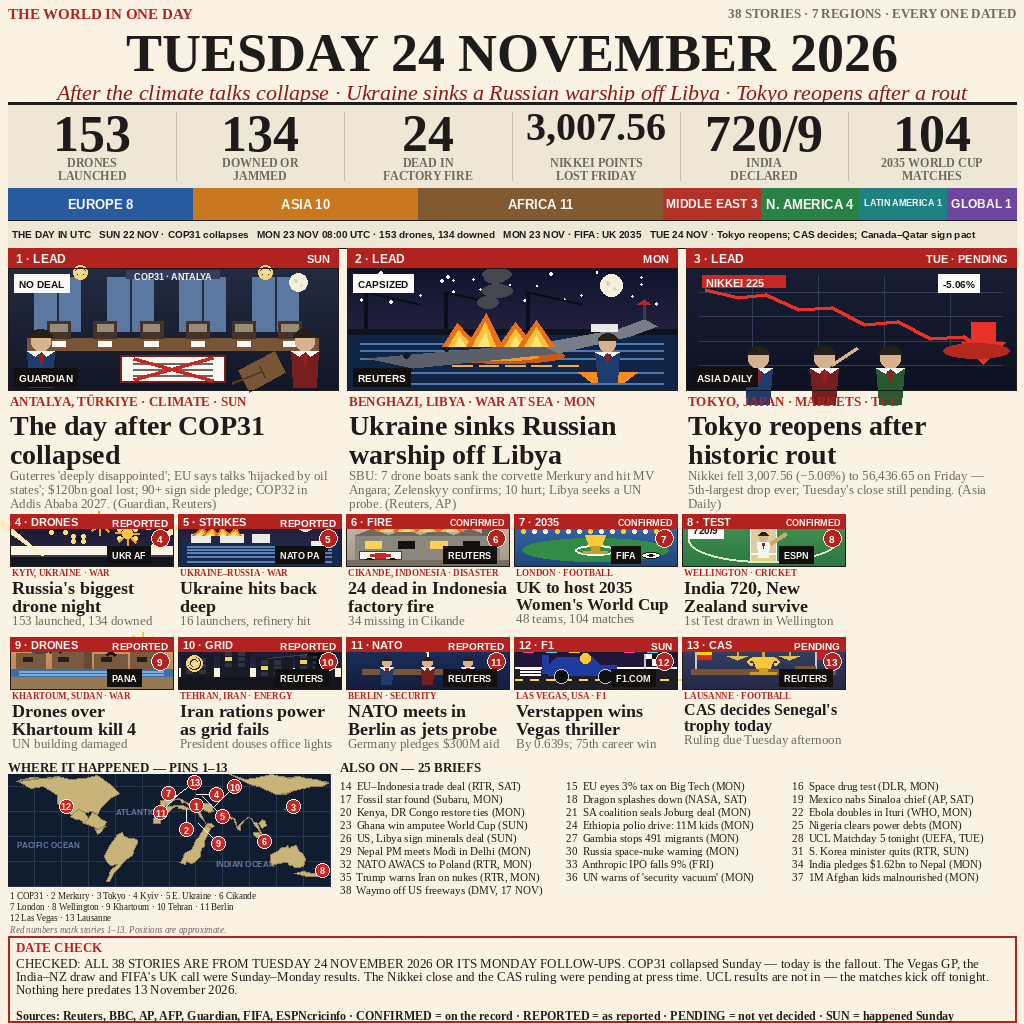
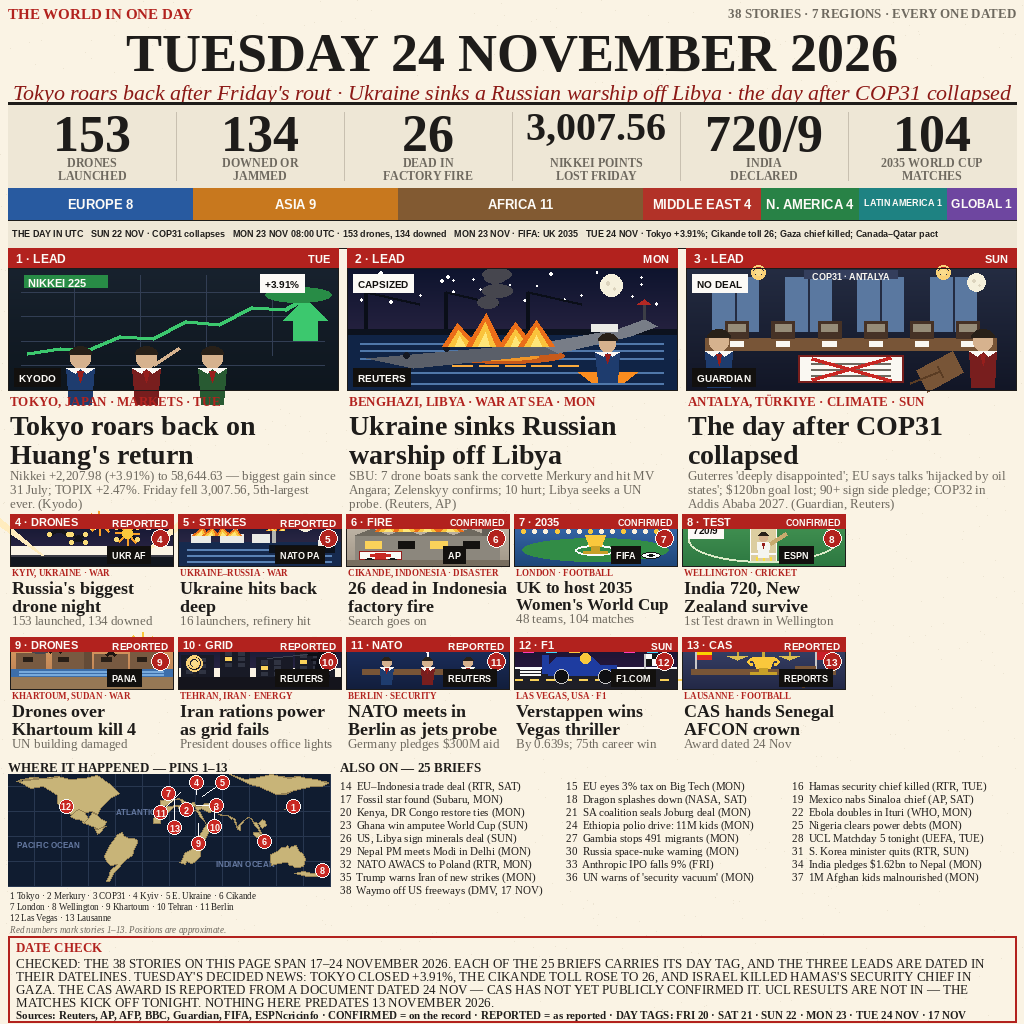
News 24 R2: full-day Tuesday edition — decided Tokyo close (+3.91%), CAS award reported, Cikande 26, Gaza brief

diff --git a/main.ts b/main.ts
@@ -1,25 +1,20 @@
-// Copies entry.png from the repo root to MAKEFUN_OUTPUT_DIR
-// (default /output) and verifies the copy is byte-identical.
-const fs = require('node:fs');
-const path = require('node:path');
+import { copyFileSync, existsSync, mkdirSync } from "node:fs";
+import { join } from "node:path";
 
-const source = path.join(__dirname, 'entry.png');
-const outDir = process.env.MAKEFUN_OUTPUT_DIR || '/output';
-const dest = path.join(outDir, 'entry.png');
+const OUTPUT_DIR = process.env.MAKEFUN_OUTPUT_DIR ?? "/output";
+const SOURCE = join(process.cwd(), "entry.png");
+const DEST = join(OUTPUT_DIR, "entry.png");
 
-if (!fs.existsSync(source)) {
-  console.error(`entry.png not found: ${source}`);
+if (!existsSync(SOURCE)) {
+  console.error(`Missing input image: ${SOURCE}`);
   process.exit(1);
 }
 
-fs.mkdirSync(outDir, { recursive: true });
-fs.copyFileSync(source, dest);
+mkdirSync(OUTPUT_DIR, { recursive: true });
+copyFileSync(SOURCE, DEST);
 
-const srcBuf = fs.readFileSync(source);
-const dstBuf = fs.readFileSync(dest);
-if (!srcBuf.equals(dstBuf)) {
-  console.error('verification failed: copied entry.png differs from source');
+if (!existsSync(DEST)) {
+  console.error(`Copy failed: ${DEST} was not created`);
   process.exit(1);
 }
-
-console.log(`entry.png copied to ${dest}`);
+console.log(`Copied entry.png to ${DEST}`);

diff --git a/README.md b/README.md
@@ -4,7 +4,7 @@
 [![Rank](https://make.fun/badge/news-image-20261124/fiqirealme52-max/NewsImage24R1/rank.svg)](https://make.fun/bounty/news-image-20261124?utm_source=github&utm_medium=readme&utm_campaign=news-image-20261124)
 [![Reward](https://make.fun/badge/news-image-20261124/fiqirealme52-max/NewsImage24R1/reward.svg)](https://make.fun/bounty/news-image-20261124?utm_source=github&utm_medium=readme&utm_campaign=news-image-20261124)
 
-One image that sums up Tuesday 24 November 2026's world news: 38 stories across 7 regions — the day after COP31 collapsed, Ukraine sinking a Russian warship off Libya, and Tokyo reopening after its historic rout — drawn as a flat-illustration broadsheet front page on cream paper.
+One image that sums up Tuesday 24 November 2026's world news: 38 stories across 7 regions — Tokyo roaring back (+3.91%) after Friday's historic rout, Ukraine sinking a Russian warship off Libya, the CAS award handing Senegal the AFCON crown (reported from a document dated 24 Nov, not yet publicly confirmed by CAS), and the day after COP31 collapsed — drawn as a flat-illustration broadsheet front page on cream paper.
 
 The image is drawn programmatically (PIL, serif headlines, one coherent flat style, no photos) and shipped as `entry.png` (1024×1024). `main.ts` copies it to `/output/entry.png`.
 
